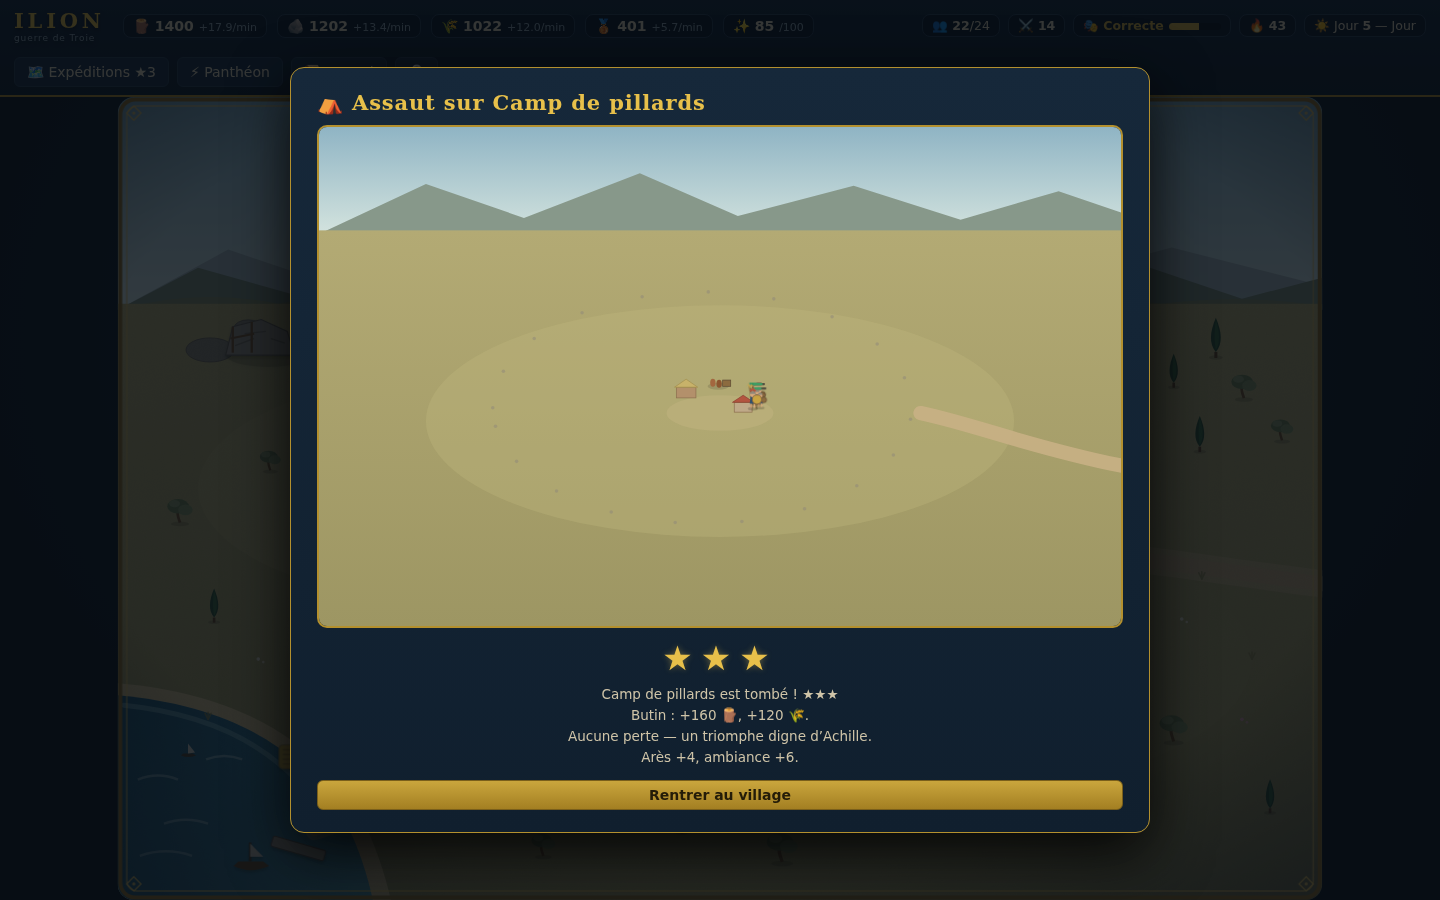
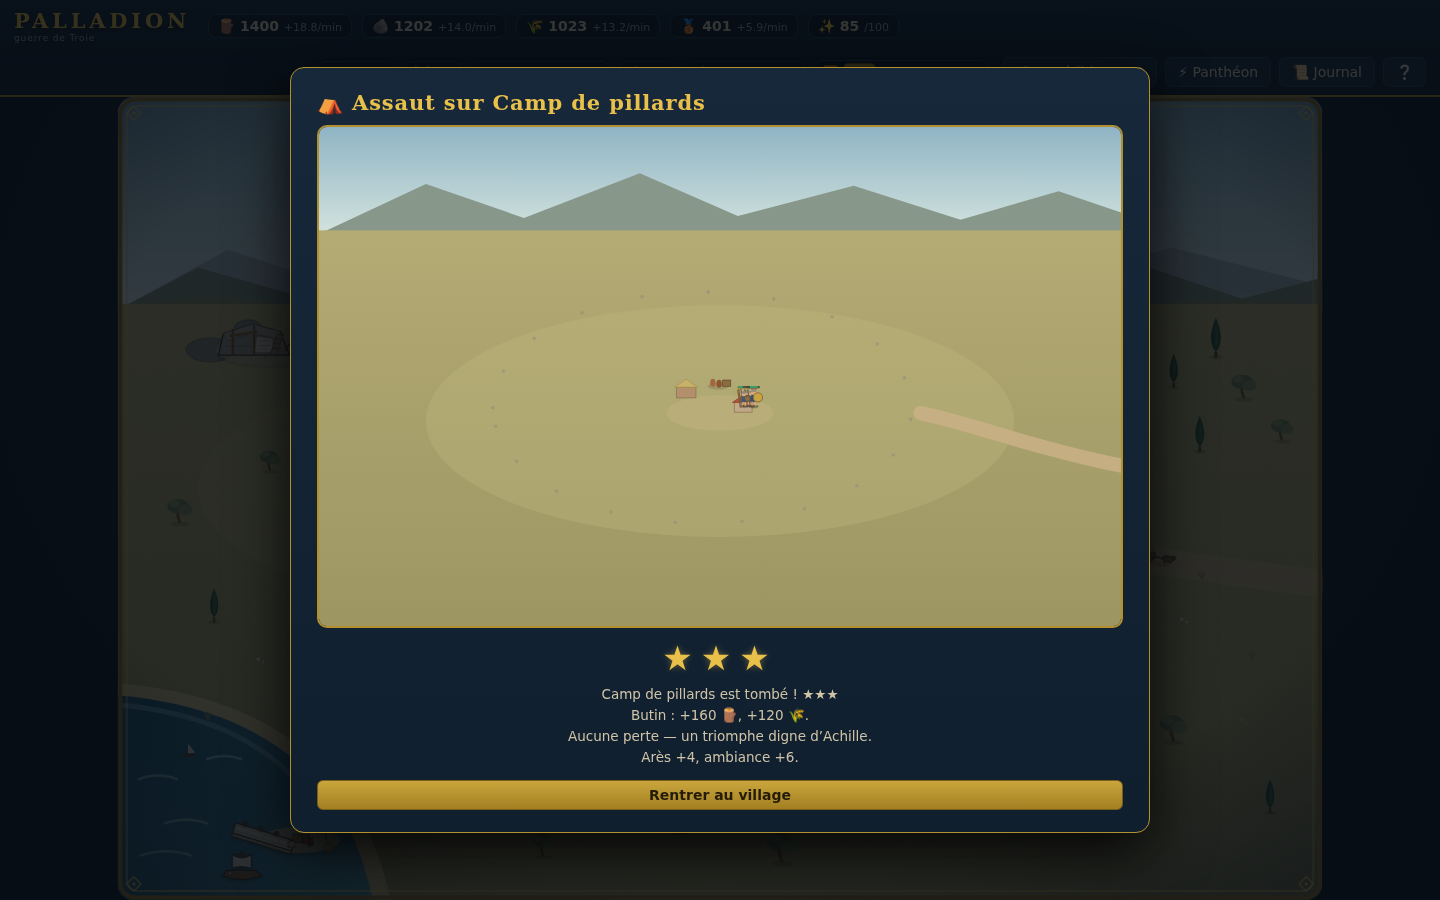
docs : captures et README à jour après la refonte

diff --git a/README.md b/README.md
@@ -18,11 +18,13 @@
 ## ✨ Ce qui rend PALLADION différent
 
 ### 🧱 Une évolution **visuelle** des bâtiments
-Chaque bâtiment est dessiné **en SVG par code**, avec une apparence distincte par niveau.
-Les remparts passent de la palissade de pieux → au muret de pierre sèche → à la muraille
-crénelée → aux hautes murailles « bâties par Poséidon » avec tours de guet et étendards.
-Idem pour les 9 autres bâtiments (temple, agora, forge, port…). Les dégâts se voient :
-fissures, décombres, brèche à la porte.
+Chaque bâtiment est dessiné **en SVG par code**, en volumes texturés (tuiles, pierre,
+chaume, sillons) avec une apparence distincte par niveau. Les remparts passent de la
+palissade de pieux → au muret de pierre sèche → à la muraille crénelée → aux hautes
+murailles « bâties par Poséidon » avec tours de guet et étendards. Idem pour les 9 autres
+bâtiments (temple, agora, forge, port…). Les dégâts se voient : fissures, décombres,
+brèche à la porte. Et le village **vit** : villageois qui flânent, char à bœufs sur la
+route, chèvres à la ferme, moutons au pré, fumées et braseros.
 
 ### ⚔ Des vagues d'assaut PvE, jouées sous vos yeux
 La prospérité attire les convoitises : des bandes armées (pillards, guerriers achéens,
